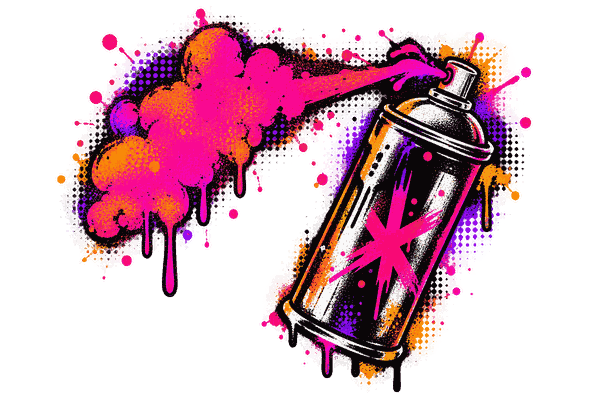
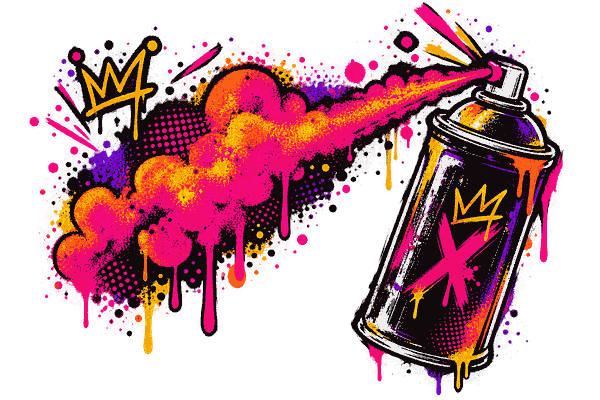
ui: фон groovy (вариант 2), graffiti-лого, унификация toggle*Row
- groovy: фон-сцена из decor-hill/decor-cloud-*/decor-stars вместо
  плоского фона (.bg-blobs переиспользован, три PNG-слоя через
  ::before/::after/span вместо одного background-image с 4 url() —
  последний не парсился в тестовом браузере). Попутно починен реальный
  баг: старый background-color: var(--accent)/var(--ok) от блобов
  просвечивал сквозь прозрачные PNG, сброшен в transparent.
- graffiti: logo.png перегенерирован (только слово LIFEOS, альфа-канал
  проверен явно через getbbox()/getextrema()), подключён .brand::before
  тем же приёмом, что у groovy/japan/pixel. Бокс 150×84 подобран под
  реальный аспект картинки (~1.78:1), не под черновой 720×200 канвас.
  empty-habits.png/empty-tasks.png переобработаны тем же пайплайном
  (process_skin_images.py) заодно — только пересжатие, не новый контент.
- toggle*Row: toggleTaskRow/toggleGoalRow/toggleDebtRow/toggleContactRow
  были 4 идентичные копии — слиты в toggleDomainRow(li, id, expandedSet,
  renderPanel), обёртки с прежними именами не меняют ни один вызов.

1303 теста зелёные, ruff/black чисты.

diff --git a/lifeos-agent/app/web/static/index.html b/lifeos-agent/app/web/static/index.html
@@ -1827,11 +1827,67 @@
   /* Тёмного варианта нет намеренно: это цельный образ, а не «светлая
      версия чего-то». */
 
-  /* Декоративные размытые пятна выключены: в референсе фон плоский
-     почти чёрный, а пятна давали бурый и зелёный подтёк по краям и
-     ломали контраст кремовых карточек. Размытие вообще чужое этому
-     стилю — здесь всё либо контур, либо плоская заливка. */
-  :root[data-skin="groovy"] .bg-blobs { display: none; }
+  /* Размытые круглые пятна (.bg-blobs > span) по-прежнему выключены —
+     блюр чужой этому стилю (см. решение ниже про декор). Но сам
+     контейнер .bg-blobs (fixed, во весь экран, z-index:-1) переиспользован
+     под пейзаж-фон вместо своей обычной роли: три уже нарисованных
+     PNG (decor-hill/decor-cloud-*/decor-stars, те же файлы, что и
+     угловой декор карточек выше) вместо CSS-текстуры или новой
+     иллюстрации — владелец выбрал этот вариант через impeccable-превью
+     (риск ниже, ассеты уже готовы). Статично, без дрейфа: контейнер на
+     весь экран, а не 70-90px угол карточки — там анимация будет
+     маячить на периферии зрения, а не «замечаться, только если смотреть
+     специально» (тот же принцип, что уже описан у groovy-drift). */
+  /* Четыре независимых слоя вместо одного свойства с четырьмя url() —
+     тот же приём, что уже используют .card::before/::after для углового
+     декора (один слой = один селектор), а не список через запятую:
+     проще независимо позиционировать и надёжнее в разных движках
+     рендеринга. Готовый контейнер .bg-blobs даёт два <span> — переиспользованы
+     под первые два слоя, ::before/::after контейнера — под оставшиеся два. */
+  :root[data-skin="groovy"] .bg-blobs {
+    display: block;
+  }
+  :root[data-skin="groovy"] .bg-blobs::before,
+  :root[data-skin="groovy"] .bg-blobs::after,
+  :root[data-skin="groovy"] .bg-blobs > span {
+    content: "";
+    position: absolute;
+    /* Сбрасывает background-color: var(--accent)/var(--ok) из базового
+       .bg-blobs > span (это заливка блоба-круга) — без явного transparent
+       она просвечивала сплошным пятном под/вокруг прозрачных PNG. */
+    background-color: transparent;
+    background-repeat: no-repeat;
+    filter: none;
+    opacity: 1;
+    border-radius: 0;
+    animation: none;
+  }
+  :root[data-skin="groovy"] .bg-blobs > span:nth-child(1) {
+    inset: auto 0 0 0;
+    height: 22vh;
+    background-image: url("skins/groovy/decor-hill.png");
+    background-size: 100% 100%;
+    background-position: bottom center;
+  }
+  :root[data-skin="groovy"] .bg-blobs > span:nth-child(2) {
+    top: 5vh; right: 8vw;
+    width: 200px; height: 130px;
+    background-image: url("skins/groovy/decor-cloud-big.png");
+    background-size: contain;
+  }
+  :root[data-skin="groovy"] .bg-blobs::before {
+    top: 13vh; left: 9vw;
+    width: 130px; height: 85px;
+    background-image: url("skins/groovy/decor-cloud-small.png");
+    background-size: contain;
+  }
+  :root[data-skin="groovy"] .bg-blobs::after {
+    top: 0; left: 0; right: 0;
+    height: 30vh;
+    background-image: url("skins/groovy/decor-stars.png");
+    background-repeat: repeat;
+    background-size: 320px auto;
+  }
 
   /* --- Цвет домена ---------------------------------------------------
      Один акцент на карточку, используется сразу в трёх местах: чип
@@ -2856,11 +2912,31 @@
   }
 
   /* Лого-леттеринг — граффити-тег вместо кольца, тот же приём, что у
-     groovy/japan. У graffiti.logo.png был текст «LIFEOS TRACKER» вместо
-     одного слова «LIFEOS» (нарушение промпта из designs/002) — файл
-     удалён из skins/graffiti/ до перегенерации, поэтому здесь ещё
-     кольцо .brand-mark, не картинка. Когда придёт чистый logo.png —
-     включить тем же .brand::before блоком, что у groovy/japan/pixel. */
+     groovy/japan/pixel. Перегенерированный logo.png (только слово
+     LIFEOS, альфа-канал проверен явно — getbbox()/getextrema(), не на
+     глаз, см. designs/002) даёт содержимое ~1.78:1 (355×200 после
+     process_skin_images.py) — бокс ниже подобран под ЭТУ форму, а не
+     под черновой 720×200 канвас исходника (та же логика, что у japan:
+     «лого здесь квадратный герб, а не длинный леттеринг, поэтому и
+     бокс другой формы»). background-size: contain не растягивает, так
+     что точное совпадение аспекта не обязательно, но без него бокс
+     кормил бы лишними пустыми полями. */
+  :root[data-skin="graffiti"] .brand-mark { display: none; }
+  :root[data-skin="graffiti"] .brand::before {
+    content: "";
+    width: 150px;
+    height: 84px;
+    flex: none;
+    background: url("skins/graffiti/logo.png") no-repeat center / contain;
+  }
+  :root[data-skin="graffiti"] .brand span {
+    position: absolute;
+    width: 1px;
+    height: 1px;
+    overflow: hidden;
+    clip-path: inset(50%);
+    white-space: nowrap;
+  }
 
   @media (prefers-reduced-motion: reduce) {
     :root[data-skin="graffiti"] .card { transition: none; }
@@ -4355,24 +4431,36 @@ document.getElementById("taskForm").addEventListener("submit", async (e) => {
   await loadTasks();
 });
 
+/** Открыть/закрыть .task-details одной строки — общая точка для
+    задач/контактов/долгов/целей (было 4 отдельные копии этой функции,
+    отличавшиеся только Set'ом развёрнутых id и тем, надо ли дозагружать
+    содержимое панели при открытии — унифицировано в одну). У каждого
+    домена по-прежнему свой Set (expandedTaskPanels/expandedContactPanels/
+    expandedDebtPanels/expandedGoalPanels) и своя обёртка ниже с прежним
+    именем — вызовы из обработчиков кликов не меняются. renderPanel
+    необязателен: у целей дозагружать нечего (слайдер уже в DOM). */
+async function toggleDomainRow(li, id, expandedSet, renderPanel) {
+  const details = li.querySelector(".task-details");
+  const chevron = li.querySelector(".task-details-toggle");
+  if (!details) return;
+  if (expandedSet.has(id)) {
+    expandedSet.delete(id);
+    details.hidden = true;
+    if (chevron) chevron.textContent = "▾";
+  } else {
+    expandedSet.add(id);
+    details.hidden = false;
+    if (chevron) chevron.textContent = "▴";
+    if (renderPanel) await renderPanel(id);
+  }
+}
+
 /** Открыть/закрыть .task-details одной задачи — общая точка для клика по
     строке, клика по шеврону и свайпа влево (см. attachSwipeToComplete
     ниже вызывает эту же функцию для отдельного действия complete, но
     сам toggle — только здесь, не дублируется). */
 async function toggleTaskRow(li, id) {
-  const details = li.querySelector(".task-details");
-  const chevron = li.querySelector(".task-details-toggle");
-  if (!details) return;
-  if (expandedTaskPanels.has(id)) {
-    expandedTaskPanels.delete(id);
-    details.hidden = true;
-    if (chevron) chevron.textContent = "▾";
-  } else {
-    expandedTaskPanels.add(id);
-    details.hidden = false;
-    if (chevron) chevron.textContent = "▴";
-    await renderTaskPanel(id);
-  }
+  await toggleDomainRow(li, id, expandedTaskPanels, renderTaskPanel);
 }
 
 /** Общая точка входа для завершения задачи — и по кнопке ✓, и по свайпу
@@ -4663,18 +4751,7 @@ async function loadGoals() {
 }
 
 function toggleGoalRow(li, id) {
-  const details = li.querySelector(".task-details");
-  const chevron = li.querySelector(".task-details-toggle");
-  if (!details) return;
-  if (expandedGoalPanels.has(id)) {
-    expandedGoalPanels.delete(id);
-    details.hidden = true;
-    if (chevron) chevron.textContent = "▾";
-  } else {
-    expandedGoalPanels.add(id);
-    details.hidden = false;
-    if (chevron) chevron.textContent = "▴";
-  }
+  return toggleDomainRow(li, id, expandedGoalPanels, null);
 }
 
 document.getElementById("goalForm").addEventListener("submit", async (e) => {
@@ -4960,23 +5037,10 @@ document.getElementById("debtForm").addEventListener("submit", async (e) => {
   }
 });
 
-/** Открыть/закрыть .task-details одного долга — прямая копия
-    toggleTaskRow, свой Set/DOM-якорь (expandedDebtPanels /
-    data-debt-panel-for). */
+/** Открыть/закрыть .task-details одного долга — свой Set/DOM-якорь
+    (expandedDebtPanels), общая логика — в toggleDomainRow. */
 async function toggleDebtRow(li, id) {
-  const details = li.querySelector(".task-details");
-  const chevron = li.querySelector(".task-details-toggle");
-  if (!details) return;
-  if (expandedDebtPanels.has(id)) {
-    expandedDebtPanels.delete(id);
-    details.hidden = true;
-    if (chevron) chevron.textContent = "▾";
-  } else {
-    expandedDebtPanels.add(id);
-    details.hidden = false;
-    if (chevron) chevron.textContent = "▴";
-    await renderDebtPanel(id);
-  }
+  await toggleDomainRow(li, id, expandedDebtPanels, renderDebtPanel);
 }
 
 document.getElementById("debtList").addEventListener("click", async (e) => {
@@ -5213,23 +5277,10 @@ document.getElementById("contactsForm").addEventListener("submit", async (e) => 
   await loadContacts();
 });
 
-/** Открыть/закрыть .task-details одного контакта — прямая копия
-    toggleTaskRow у задач, свой Set/DOM-якорь (expandedContactPanels /
-    data-contact-panel-for), поэтому не переиспользует ту же функцию. */
+/** Открыть/закрыть .task-details одного контакта — свой Set/DOM-якорь
+    (expandedContactPanels), общая логика — в toggleDomainRow. */
 async function toggleContactRow(li, id) {
-  const details = li.querySelector(".task-details");
-  const chevron = li.querySelector(".task-details-toggle");
-  if (!details) return;
-  if (expandedContactPanels.has(id)) {
-    expandedContactPanels.delete(id);
-    details.hidden = true;
-    if (chevron) chevron.textContent = "▾";
-  } else {
-    expandedContactPanels.add(id);
-    details.hidden = false;
-    if (chevron) chevron.textContent = "▴";
-    await renderContactPanel(id);
-  }
+  await toggleDomainRow(li, id, expandedContactPanels, renderContactPanel);
 }
 
 document.getElementById("contactsList").addEventListener("click", async (e) => {
